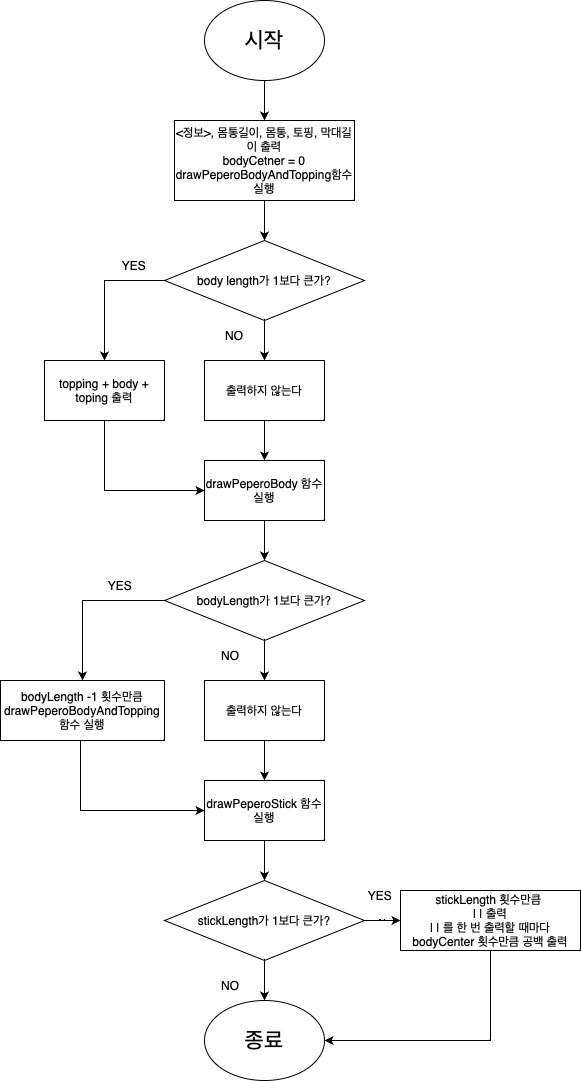
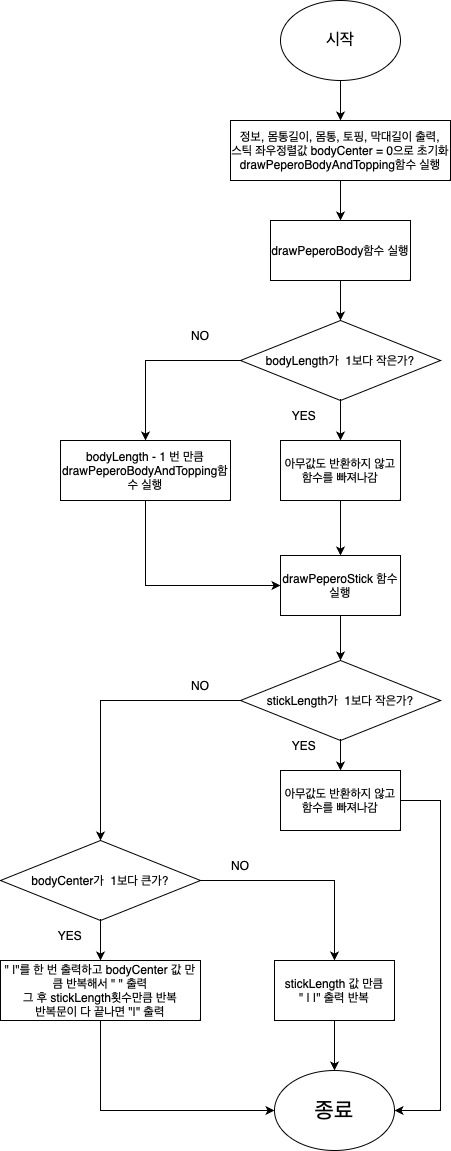
step3_수정

diff --git a/CodeStarterCamp_Week1/step3.swift b/CodeStarterCamp_Week1/step3.swift
@@ -14,27 +14,33 @@ func drawPeperoStick(stickLength: Int, bodyCenter: Int) {
     if stickLength < 1 {
         return
     }
-    else {
+    
+    else if bodyCenter > 1 {
+        
         for _ in 1...stickLength {
-            //빼빼로를 중앙에 오도록 bodyCount 만큼 띄어쓰기
+            print(" |", terminator: "")
+            
+            //빼빼로 막대를 양 사이드에 맞도록 bodyCount 만큼 띄어쓰기
             for _ in 1...bodyCenter{
                 print(" ", terminator: "")
             }
-            print("| |")
+            
+            print("|")
+        }
+    }
+    else {
+        for _ in 1...stickLength {
+            print(" | |")
         }
     }
 }
 
 
 //빼빼로 토핑과 몸통 그리기
-func drawPeperoBodyAndTopping(bodyLength: Int, body: String, topping: String, stickLength: Int) {
+func drawPeperoBodyAndTopping(bodyLength: Int, body: String, topping: String) {
     
-    if bodyLength < 1 {
-        return
-    }
-    else {
-        print(" " + topping + body + topping)
-    }
+    print(" " + topping + body + topping)
+
 }
 
 //빼빼로 몸통 길이를 받고 그리기
@@ -45,7 +51,7 @@ func drawPeperoBody(bodyLength: Int, body: String, topping: String, stickLength:
     }
     else {
         for _ in 1...bodyLength - 1 {
-            drawPeperoBodyAndTopping(bodyLength: bodyLength, body: body, topping: topping, stickLength: stickLength)
+            drawPeperoBodyAndTopping(bodyLength: bodyLength, body: body, topping: topping)
         }
     }
 }
@@ -60,15 +66,17 @@ func drawPepero(bodyLength: Int, body: String, topping: String, stickLength: Int
     print("막대길이: \(stickLength)")
     print("")
     
-    //스틱이 빼빼로의 중앙에 위치하도록 하는 값
+    //스틱이 빼빼로의 양 사이드에 위치하도록 하는 값
     var bodyCenter: Int = 0
     
-    drawPeperoBodyAndTopping(bodyLength: bodyLength, body: body, topping: topping, stickLength: stickLength)
+    drawPeperoBodyAndTopping(bodyLength: bodyLength, body: body, topping: topping)
     
-    bodyCenter = (((topping.count * 2) + body.count) / 2) 
-    //print(bodyCenter) 센터 확인용 test code
+    //빼빼로 몸통두께 = 스틱두께
+    bodyCenter = (body.count - 2) + (topping.count * 2)
+
     drawPeperoBody(bodyLength: bodyLength, body: body, topping: topping, stickLength: stickLength)
     drawPeperoStick(stickLength: stickLength, bodyCenter: bodyCenter)
     
+    //2줄 개행
     print("\n")
 }

diff --git a/CodeStarterCamp_Week1/main.swift b/CodeStarterCamp_Week1/main.swift
@@ -7,7 +7,7 @@
 //
 
 import Foundation
-
+/*-----------STEP1-----------*/
 //func drawIceCream() {
 //    for _ in 0...7 {
 //        for _ in 0...10 {
@@ -26,9 +26,10 @@ import Foundation
 //drawIceCream()
 //drawIceCreamBar()
 
+/*-----------STEP2-----------*/
 drawPepero(bodyLength: 10, body: "***", topping: "", stickLength: 4)
 drawPepero(bodyLength: 12, body: "***", topping: "&", stickLength: 4)
 drawPepero(bodyLength: 12, body: "***", topping: "#", stickLength: 6)
 drawPepero(bodyLength: 6, body: "|0|", topping: "", stickLength: 4)
 drawPepero(bodyLength: 10, body: "|0|", topping: "#", stickLength: 0)
-drawPepero(bodyLength: 0, body: "|0|", topping: "%", stickLength: 10)
+drawPepero(bodyLength: 0, body: "", topping: "", stickLength: 10)
